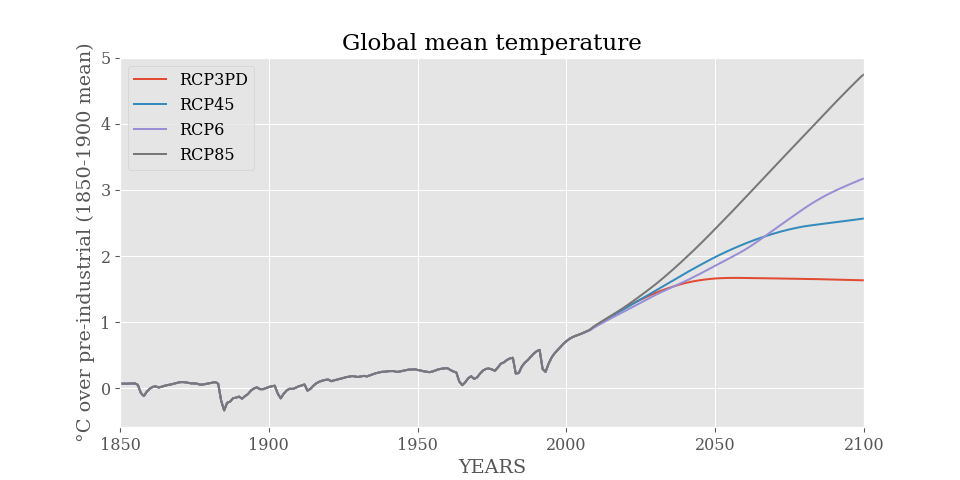
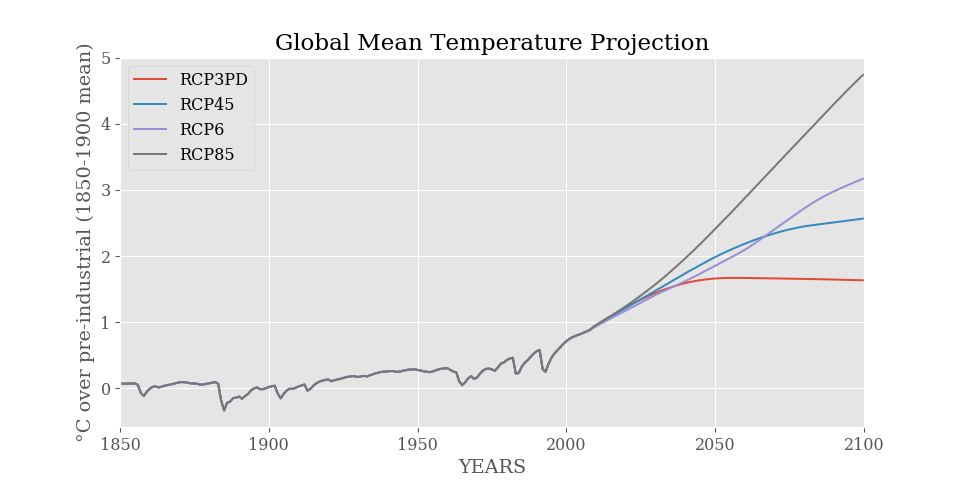
Fix examples

Changed region(s): [[0.2812, 0.0625, 0.75, 0.125]]

diff --git a/scripts/plot_example.py b/scripts/plot_example.py
@@ -1,25 +1,27 @@
 import os
-
 import matplotlib.pyplot as plt
+import pymagicc
+
+from pymagicc import scenarios
+
 plt.style.use("ggplot")
 plt.rcParams["figure.figsize"] = 10, 5
 plt.rcParams["font.family"] = "serif"
 plt.rcParams["font.size"] = 12
 
-import pymagicc
-from pymagicc import rcp3pd, rcp45, rcp6, rcp85
 
 path = os.path.join(os.path.dirname(__file__),
                     './example-plot.png')
 
-for rcp in  [rcp3pd, rcp45, rcp6, rcp85]:
-    results, _ = pymagicc.run(rcp)
-    temp = results.SURFACE_TEMP.GLOBAL.loc[1850:] - \
-        results.SURFACE_TEMP.GLOBAL.loc[1850:1900].mean()
-    temp.plot(label=rcp.name)
+for name, scen in scenarios.items():
+    results, params = pymagicc.run(scen, return_config=True)
+    temp = results["SURFACE_TEMP"].GLOBAL.loc[1850:] - \
+           results["SURFACE_TEMP"].GLOBAL.loc[1850:1900].mean()
+    temp.plot(label=name)
 
-plt.title("Global mean temperature")
-plt.ylabel("°C over pre-industrial (1850-1900 mean)")
+plt.legend()
+plt.title("Global Mean Temperature Projection")
+plt.ylabel(u"°C over pre-industrial (1850-1900 mean)")
 plt.legend(loc="best")
 
 plt.savefig(path, dpi=96)

diff --git a/README.md b/README.md
@@ -15,19 +15,15 @@ See http://www.magicc.org/ for further information about the MAGICC model.
 
 ```python
 import pymagicc
-from pymagicc import rcp3pd, rcp45, rcp6, rcp85
+from pymagicc import scenarios
 
-import matplotlib.pyplot as plt
-
-for rcp in  [rcp3pd, rcp45, rcp6, rcp85]:
-    results = pymagicc.run(rcp)
-    temp = results["SURFACE_TEMP"].GLOBAL.loc[1850:] - \
-        results["SURFACE_TEMP"].GLOBAL.loc[1850:1900].mean()
-    temp.plot(label=rcp.name)
-
-plt.title("Global mean temperature")
-plt.ylabel("°C over pre-industrial (1850-1900 mean)")
-plt.legend(loc="best")
+for name, scen in scenarios.items():
+    results, params = pymagicc.run(scen, return_config=True)
+    temp = results["SURFACE_TEMP"].GLOBAL.loc[1850:] - results["SURFACE_TEMP"].GLOBAL.loc[1850:1900].mean()
+    temp.plot(label=name)
+plt.legend()
+plt.title("Global Mean Temperature Projection")
+plt.ylabel(u"°C over pre-industrial (1850-1900 mean)")
 ```
 
 ![](scripts/example-plot.png)
